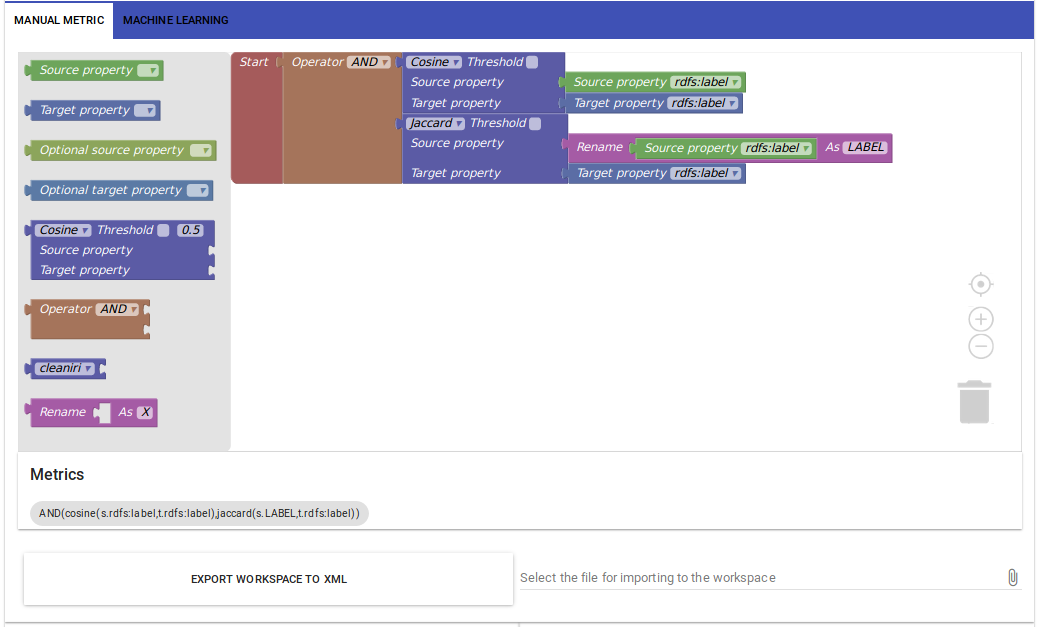
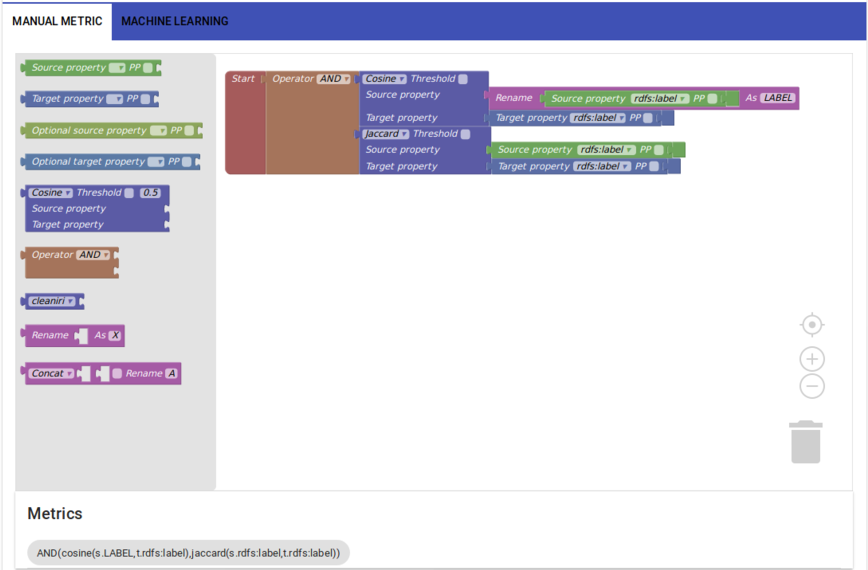
Update of the manual

diff --git a/limes-web-ui/public/index.html b/limes-web-ui/public/index.html
@@ -11,8 +11,8 @@
     <link rel="stylesheet" href="https://unpkg.com/vue-material@0.8.1/dist/vue-material.css">
     <link rel="stylesheet" href="https://cdnjs.cloudflare.com/ajax/libs/highlight.js/9.12.0/styles/
     default.min.css">
-    <link type="text/css" rel="stylesheet" href="//unpkg.com/bootstrap/dist/css/bootstrap.min.css" />
-    <link type="text/css" rel="stylesheet" href="//unpkg.com/bootstrap-vue@latest/dist/bootstrap-vue.min.css" />
+<!--     <link type="text/css" rel="stylesheet" href="//unpkg.com/bootstrap/dist/css/bootstrap.min.css" />
+    <link type="text/css" rel="stylesheet" href="//unpkg.com/bootstrap-vue@latest/dist/ --><!-- bootstrap-vue.min.css" /> -->
     <title>LIMES Web UI</title>
     <style lang="scss" scoped>
   .dropdown {
@@ -64,6 +64,9 @@
   }
   .dropdown-item {
     padding-top: 4px;
+/*    padding-left: 0;
+    padding-right: 0;
+    font-size: 14px;*/
   }
   .contColumns {
     width: 46%;

diff --git a/docs/index.html b/docs/index.html
@@ -31,11 +31,12 @@
       coverpage: false,
       //themeColor: '#0F68AA',
       loadNavbar: true,
+      // routerMode: 'history',
     };
 
   </script>
   <script src="//unpkg.com/docsify/lib/docsify.min.js"></script>
-  <script src="//unpkg.com/docsify-sidebar-collapse/dist/docsify-sidebar-collapse.min.js">
+  <!-- <script src="//unpkg.com/docsify-sidebar-collapse/dist/docsify-sidebar-collapse.min.js"> -->
   <script src="//unpkg.com/docsify/lib/plugins/search.min.js"></script>
   <script src="//cdn.jsdelivr.net/npm/docsify-katex@latest/dist/docsify-katex.js"></script>
 </body>

diff --git a/limes-web-ui/src/components/DatacanvasComponent.vue b/limes-web-ui/src/components/DatacanvasComponent.vue
@@ -1,6 +1,6 @@
 <template>
 	<md-layout>
-      <div id="blocklyArea" style="height: 500px; width: 100%;"></div>
+      <div id="blocklyArea" style="height: 550px; width: 100%;"></div>
       <div id="blocklyDiv" style="position: absolute"></div>
 	    <xml id="toolbox" ref=toolbox style="display: none"> 
 	          <block type="sourceproperty"></block>

diff --git a/docs/user_manual/running_limes.md b/docs/user_manual/running_limes.md
@@ -117,7 +117,7 @@ curl http://localhost:8080/logs/7538819321022935531
 LIMES Web UI is an additional tool to write configuration file in the XML using web interface and execute it using the LIMES server.
 LIMES Web UI consists of six main components: *prefixes*, *data source / target* , *manual metric*, *machine learning*, *acceptance/review conditions* and *output*.
 
-<img src="./images/full_limes_with_marks.png" width="800" alt ="Overview">
+<img src="../images/full_limes_with_marks.png" width="800" alt ="Overview">
 
 ## 3.1 - Prefixes
 
@@ -125,16 +125,17 @@ The Prefixes component consists of two parts:
 * Currently added prefixes. They look like chips, containing the label of the prefix and a hover tooltip with the namespace.
 * Add new prefix (optional). In most cases, our interface is able to automatically find the common prefixes from [prefix.cc](https://prefix.cc/context). In case the user want to add a prefix manually, (s)he can type the prefix, choose the its respective URI  from the dropdown list (if any) or manually type it.  Then, the user click on *Add* and the prefix will be added as a new chip. Again, this process is necessary for common prefixes. 
 
-<img src="./images/prefixes_web_ui.png" width="800" alt ="Prefixes_web_ui">
+<img src="../images/prefixes_web_ui.png" width="800" alt ="Prefixes_web_ui">
 
 ## 3.2 - Data source / target
 
 The Data source and data target consists of the two similar components, which include three input fields:
+* *Sparql endpoint/Local file*: One of two options can be chosen. Sparql endpoint means that the user will select the endpont from the list. Local file means that the file should be provided as an endpoint.
 * *Endpoint*: A dropdown list of available endpoints. Moreover, the user can try to search for the endpoint, typing it in the input field or write your own endpoint. After clicking on the endpoint from the list or writing it by hand and press the Enter, the user will get the list of restriction classes according to this endpoint.
 * *Restriction*: Contains of three parameters splitted by space (?s rdf:type some:Type). The third parameter will be changed automatically after changing the restriction class. 
 * *Restriction class*: A dropdown list of restriction classes according to the endpoint. You can start typing the name of the class and the list will be filtered automatically. After choosing the restriction class, you will get all the properties related to this class.
 
-<img src="./images/data_source_and_target_web_ui.png" width="800" alt ="Data_source_and_target_web_ui">
+<img src="../images/data_source_and_target_web_ui.png" width="800" alt ="Data_source_and_target_web_ui">
 
 ## 3.3 - Manual metric and machine learning
 
@@ -151,12 +152,13 @@ There are 8 blocks:
 * *Measure*, 
 * *Operator*, 
 * *Preprocessing function*, 
-* *Preprocessing rename function*. 
+* *Preprocessing rename function*,
+* *Complex reprocessing function*. 
 
 In the Workspace you can see the *Start* block, which cannot be removed. Building the metric exactly starts from connecting the *Measure* or *Operator* block to the *Start* block. Once you connect the *Measure* block, next step can be connecting the *Source property* and the *Target property*. 
 The *Measure* block consists of list of measures and checkbox for enable changing the *Threshold* value.
   
-Optionally, you could preprocess your *Source* and *Target* properties using the *Preprocessing function*. For instance, to use *Preprocessing rename function* you should put the *Source property* or *Target property* into this block and then you can connect it to the *Measure*. 
+Optionally, you could preprocess your *Source* and *Target* properties using the *Preprocessing function*. For instance, to use *Preprocessing rename function* you should put the *Source property* or *Target property* into this block and then you can connect it to the *Measure*. Using *Complex reprocessing function*, for example "Concat", it is possitble to concatenate the values of two properties and rename the final value. More information about preprocessing functions you can find [here](user_manual/configuration_file/index?id=preprocessing-functions).
   
 An *Operator* block accepts two *Measure* blocks as inputs. i.e., two *Measure* blocks must be attached to its input ports.   
 The *Operator* block includes the list of operators.  
@@ -172,7 +174,7 @@ At the top before the Workspace there are two options related to Workspace:
 * *Export workspace to xml*: You can download an xml file of the current Workspace with connected blocks. 
 * *Select file for the importing to the workspace*: You can upload the xml file of the saved Workspace to change the current Workspace.
   
-<img src="./images/manual_metric_web_ui.png" width="800" alt ="Manual_metric_web_ui">
+<img src="../images/manual_metric_web_ui.png" width="800" alt ="Manual_metric_web_ui">
 
 ### Machine learning
 
@@ -183,12 +185,12 @@ The tab *Machine learning* consists of three parts:
 
 If *Type* is supervised batch or supervised active, you will see the additional input, where you can upload the file with training data.
 
-<img src="./images/ml_web_ui.png" width="800" alt ="ML_web_ui">
+<img src="../images/ml_web_ui.png" width="800" alt ="ML_web_ui">
 
 ## 3.4 - Acceptance and review conditions
 
 In this component you can define the *Acceptance Threshold* and the *Review Threshold*. In addition, you can rename the names of files, which can be created after execution. Besides, you can change the *Relation*. Instead of prefix you can write the namespace and its respective URI will be automatically found by the interface, converted to a prefix (if it exists in prefix.cc, otherwise you have to manually add it).
-<img src="./images/acc_rev_web_ui.png" width="800" alt ="acc_rev_web_ui">
+<img src="../images/acc_rev_web_ui.png" width="800" alt ="acc_rev_web_ui">
 
 ## 3.5 - Output
 
@@ -197,16 +199,16 @@ Here you can choose an output format, including turtle (TTL), n-triples (N3), ta
 ### Display config and run
 There are three buttons at the bottom of the page: *Display config*, *Execute*, *Check the state of the previous run*.  
 * If you click on the *Display config*, you can look at formed xml config. Also, if you want you can save it.
-<img src="./images/config_xml_web_ui.png" width="500" alt ="config_xml_web_ui">  
+<img src="../images/config_xml_web_ui.png" width="500" alt ="config_xml_web_ui">  
 
 * The *Execute* button will immediately start the process of executing this xml config. You can have a look at the log messages by clicking on the link *Show log*.
 
-<img src="./images/job_status_web_ui.png" width="400" alt ="job_status_web_ui">  
+<img src="../images/job_status_web_ui.png" width="400" alt ="job_status_web_ui">  
   
 * *Check the state of the previous run* button. The execution can take time. To look at the result later, you must copy the *execution key*.
 In order to get the result of the previous run, you should click on *Check the state of the previous run* button. Here you can paste the *execution key*, which you copied when you ran the execution. Then click on *Check* and you will get the result. If the run is finished without errors and result is not empty, then you can download *accepted links* and *reviewed links* files.  
   
-<img src="./images/check_run_web_ui.png" width="400" alt ="check_run_web_ui"> 
+<img src="../images/check_run_web_ui.png" width="400" alt ="check_run_web_ui"> 
 
 
 # 4. Using the Desktop GUI client(Deprecated)
@@ -217,7 +219,7 @@ configuration file in the XML or RDF serialization.
 The LIMES GUI consists of three main components: the *menu bar*,the *tool box* and the *metric builder*.
 We will discuss each of the two components in the following subsections.
 
-<img src="./images/LimesOverview.png" width="700" alt ="Overview">
+<img src="../images/LimesOverview.png" width="700" alt ="Overview">
 
 ## Menu Bar 
 The menu bar contains three drop-down menus:
@@ -238,7 +240,7 @@ The menu bar contains three drop-down menus:
     * **[Unsupervised Learning](user_manual/gui/machine_learning/unsupervised_learning.md)**
 
 ## Toolbox
-<img src="./images/ToolBox.png" height="400" style="float:right; margin:0 0 0 2em" alt ="ToolBox">
+<img src="../images/ToolBox.png" height="400" style="float:right; margin:0 0 0 2em" alt ="ToolBox">
 
 On the left you can find the toolbox containing everything you need to build your own metric after you loaded/made a configuration
 * *Source/Target Properties*: The properties you want to link (if you did not load or create a configuration these are empty)
@@ -248,7 +250,7 @@ On the left you can find the toolbox containing everything you need to build you
 <div style="clear:both"></div>
 
 ## Metric Builder
-<img src="./images/MetricBuilder.png" width="600" alt ="MetricBuilder">
+<img src="../images/MetricBuilder.png" width="600" alt ="MetricBuilder">
 
 The metric builder eases the process of complex link specification creation, especially for end users
 with limited programming experience. In particular, you can visually link the various atomic link
@@ -267,19 +269,19 @@ Files can also be entered more easily by pressing the little green button with t
 Let's use `http://dbpedia.org/sparql` as source endpoint and `http://linkedgeodata.org/sparql` as target endpoint URL.
 We enter `dbpedia` as source ID and `lgd` as target ID:
 
-<img src="./images/EditEndpointView.png" width="800" alt ="Endpoint Configuration Window">
+<img src="../images/EditEndpointView.png" width="800" alt ="Endpoint Configuration Window">
 
 Pressing *Next* gets you to the next step:
 
 ### Class matching
-<img src="./images/EditClassMatchingView.png" width="800" alt ="Class Matching Configuration Window">
+<img src="../images/EditClassMatchingView.png" width="800" alt ="Class Matching Configuration Window">
 
 A source and target class must be selected by clicking on it to continue. Some classes have subclasses which can be accessed by clicking on the arrow besides them.
 We click on `HistoricPlace` from dbpedia and `HistoricThing` from lgd.
 The *Next* step is:
 
 ### Property Matching
-<img src="./images/EditPropertyMatchingView.png" width="800" alt ="Property Matching Configuration Window">
+<img src="../images/EditPropertyMatchingView.png" width="800" alt ="Property Matching Configuration Window">
 
 Clicking on the available properties moves them to the bottom container, where the already added properties can be seen. If you
 change your mind, clicking on added properties moves them back up. Alternatively all available properties can be added with the button *Add All*.
@@ -313,14 +315,14 @@ If you want you can define a [Acceptance Threshold](../../configuration_file/acc
 ### Running Your Linkspecification
 If you followed the steps, your Linkspecification should look something like this:
 
-<img src="./images/BuildMetric.png" width="600" alt ="Finished Metric">
+<img src="../images/BuildMetric.png" width="600" alt ="Finished Metric">
 
 If you want to *Run* it, just click on the button in the bottom right corner.
 
 ### Results
 After the progress popup vanished you should see your results in a new window.
 
-<img src="./images/ResultView.png" width="800" ="Results">
+<img src="../images/ResultView.png" width="800" ="Results">
 
 In the top left you have the possibility to save them into a file. The relation between them will be defined as `owl:sameAs`.
 
@@ -336,13 +338,13 @@ In the menu bar click on *Learn* and choose the type you want to use. A new wind
 find a drop-down menu, showing you which algorithms implement the chosen learning type. After you click on your desired algorithm,
 the window will fill with elements you can use the set the parameters.
 
-<img src="./images/MachineLearning.png" width="600" alt ="overview of machine learning window">
+<img src="../images/MachineLearning.png" width="600" alt ="overview of machine learning window">
 
 ### Active Learning
 If you are happy with the parameters you must click on *Learn* in the bottom right corner. After the progress popup vanishes you
 will see a new window, where the algorithm wants you to label link candidates as matches or non-matches.
 
-<img src="./images/activelearning.png" width="700" alt ="active learning window asking user to label examples">
+<img src="../images/activelearning.png" width="700" alt ="active learning window asking user to label examples">
 
 You can click on *Learn* again and another iteration starts. If you don't want another iteration, you can click on *Get Results*
 and a new view with results will pop up. This time you also have the possibility to *Save Linkspecification* in the bottom left corner.
@@ -351,7 +353,7 @@ This will put the metric to the metric builder and you can save this configurati
 ### Batch Learning
 This learning type only takes one iteration and you have to provide a file containing the training mapping. 
 
-<img src="./images/BatchLearningInput.png" width="400" alt ="batch learning window asking for a training mapping file">
+<img src="../images/BatchLearningInput.png" width="400" alt ="batch learning window asking for a training mapping file">
 
 The file can be either CSV or some kind of RDF. For CSV, the first line contains the properties on which you want to match, and
 the following lines the matched properties of the instance, that are matches. For example:

diff --git a/docs/user_manual/configuration_file/index.md b/docs/user_manual/configuration_file/index.md
@@ -65,7 +65,7 @@ Optional properties can be set to segment the requested dataset.
 * The graph of the endpoint can be specified directly ofter the `ENDPOINT` tag using the `GRAPH` tag.
 * The limits of the query can be set with the `MINOFFSET` and `MAXOFFSET` tags directly after the `PAGESIZE` tag. The resulting query will ask about the statements in the interval [`MINOFFSET`, `MAXOFFSET`]. Note that `MINOFFSET` must be smaller than `MAXOFFSET`! If both `SOURCE` and `TARGET` are restricted, a warning is generated.
 
-### Pre-processing Functions
+### Preprocessing Functions
 #### Simple
 
 Currently, LIMES supports the following set of pre-processing functions:
